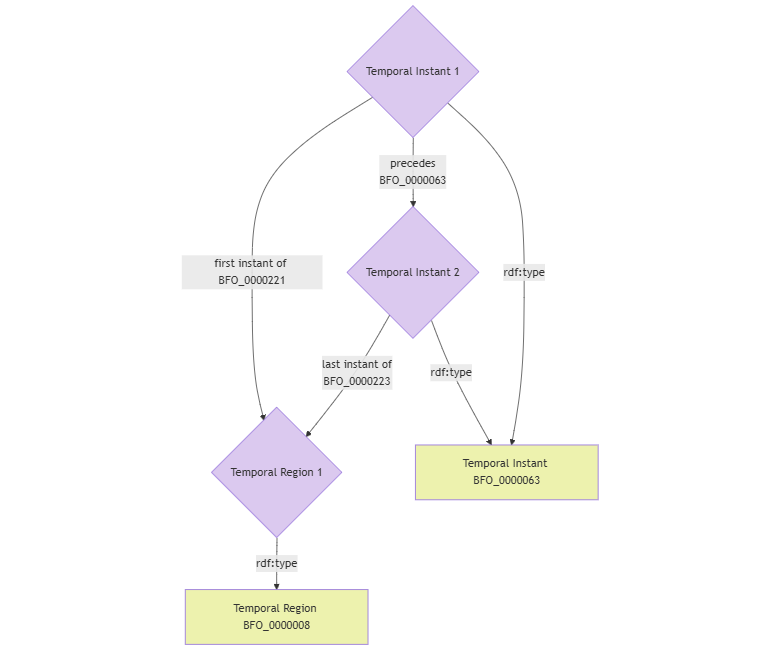
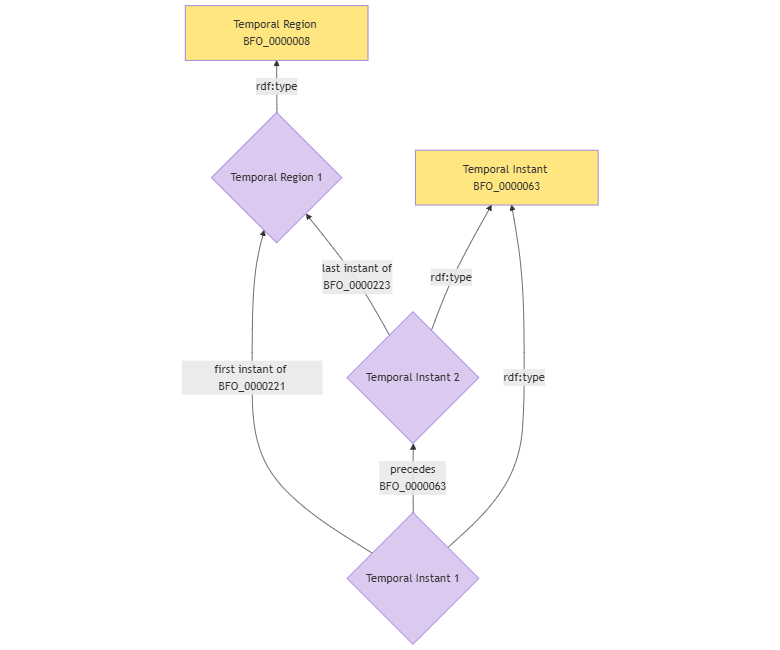
Made requested changes re: CCO design pattern from p. 17

Changed region(s): [[0.2154, 0.0, 0.7692, 1.0], [0.2769, 0.5231, 0.4308, 0.8308]]

diff --git a/design-patterns/time/CCO DP, p. 17.md b/design-patterns/time/CCO DP, p. 17.md
@@ -1,4 +1,4 @@
-graph TD
+graph BT
     A{Temporal Region 1} -->|rdf:type| B[Temporal Region BFO_0000008]
     C{Temporal Instant 1} -->|first instant of BFO_0000221| A
     D{Temporal Instant 2} -->|last instant of 
@@ -8,7 +8,7 @@ graph TD
     C -->|rdf:type| E[Temporal Instant BFO_0000063]
     D -->|rdf:type| E
 
-    classDef yellow fill:#EDF2AE
+    classDef yellow fill:#ffe680
     classDef purple fill:#dbc9ef
     class B,E yellow
     class A,C,D purple
